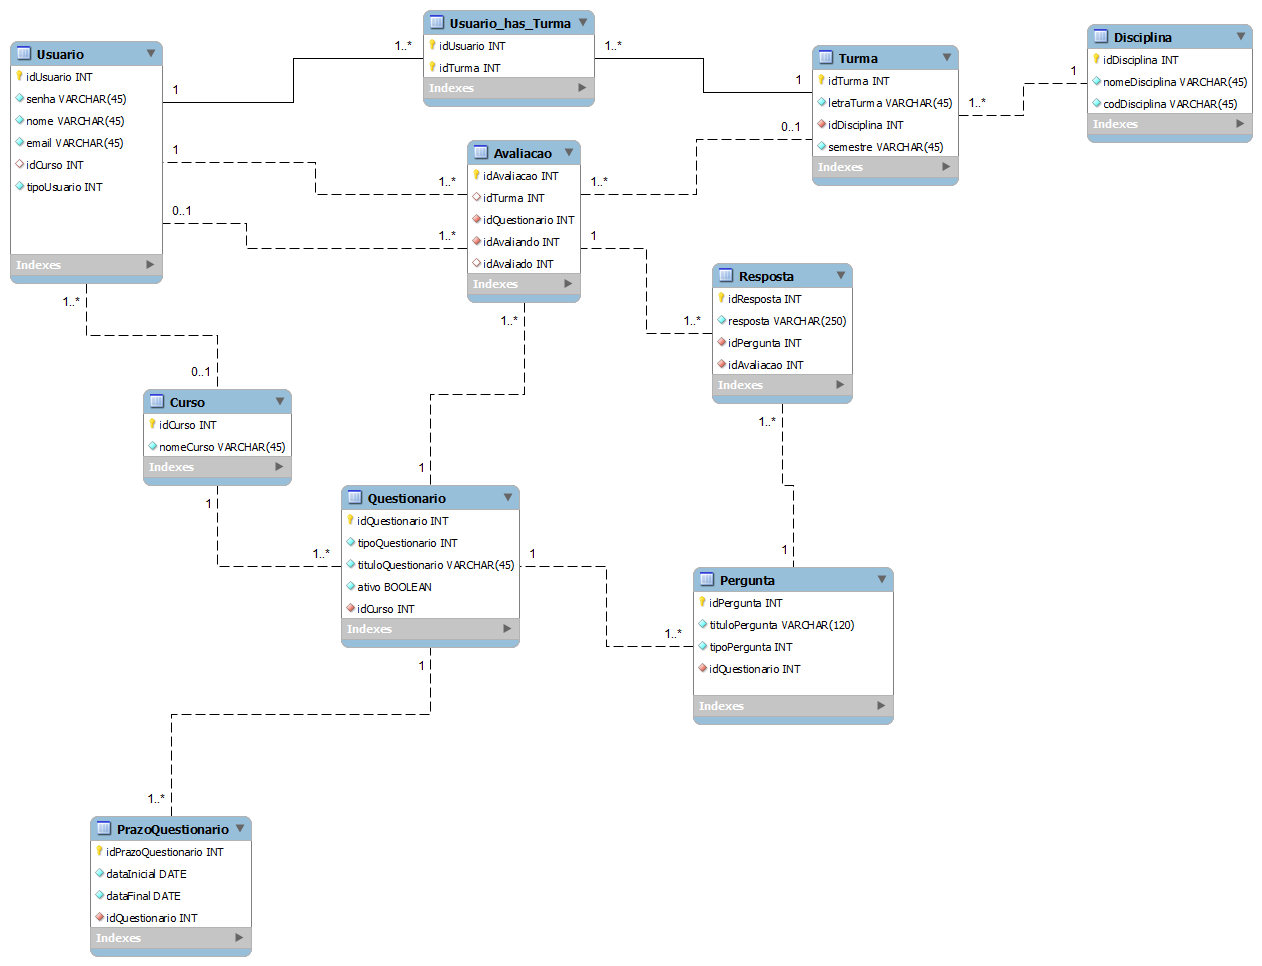
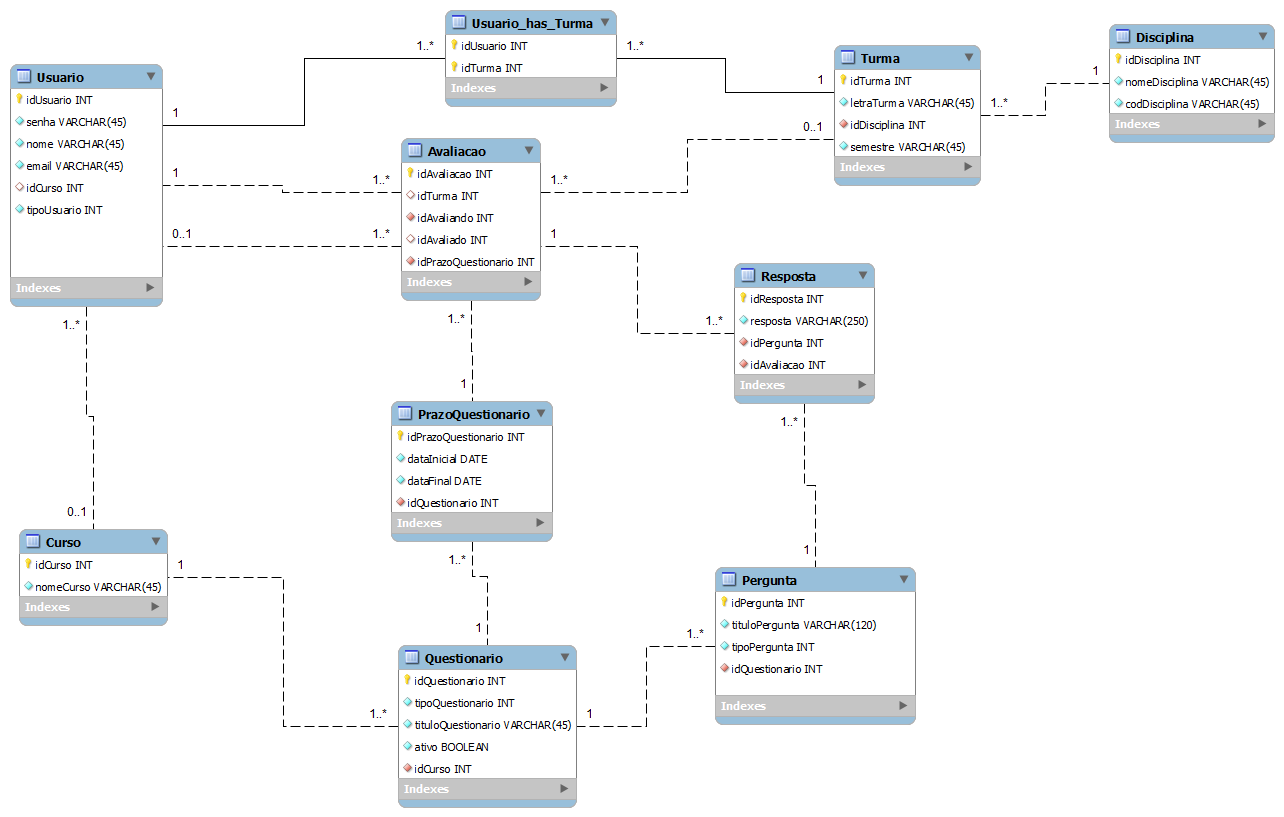
Pequena mudança no BD, avaliação de coordenador

diff --git a/src/br/ufjf/avaliacao/controller/AvaliacoesDisponiveisController.java b/src/br/ufjf/avaliacao/controller/AvaliacoesDisponiveisController.java
@@ -12,6 +12,7 @@ import org.zkoss.zk.ui.Executions;
 import org.zkoss.zk.ui.event.Event;
 import org.zkoss.zk.ui.event.EventListener;
 import org.zkoss.zk.ui.util.Clients;
+import org.zkoss.zul.Button;
 import org.zkoss.zul.Label;
 import org.zkoss.zul.Messagebox;
 import org.zkoss.zul.Row;
@@ -42,10 +43,11 @@ public class AvaliacoesDisponiveisController extends GenericController {
 	private Questionario questionarioAuto = questionarioDAO
 			.retornaQuestinarioParaUsuarioAutoAvaliacao(usuario);
 	private List<PrazoQuestionario> prazoAuto = new PrazoQuestionarioDAO()
-	.questionarioDisponivel(questionarioAuto);
-	private Questionario questionarioInfra = questionarioDAO.retornaQuestinarioParaUsuarioInfra(usuario);
+			.questionarioDisponivel(questionarioAuto);
+	private Questionario questionarioInfra = questionarioDAO
+			.retornaQuestinarioParaUsuarioInfra(usuario);
 	private List<PrazoQuestionario> prazoInfra = new PrazoQuestionarioDAO()
-	.questionarioDisponivel(questionarioInfra);
+			.questionarioDisponivel(questionarioInfra);
 	private static Questionario questionarioAtual = new Questionario();
 	private Resposta resposta = new Resposta();
 	private List<Resposta> respostas = new ArrayList<Resposta>();
@@ -103,23 +105,33 @@ public class AvaliacoesDisponiveisController extends GenericController {
 	}
 
 	@Command
+	public void avaliacaoDisponivel(@BindingParam("button") Button b,
+			@BindingParam("questionario") Questionario q) {
+		if (new AvaliacaoDAO().jaAvaliouOutros(usuario, q)) {
+			b.setDisabled(true);
+			b.setLabel("Já Avaliou");
+		} else {
+			b.setDisabled(false);
+			b.setLabel("Avaliar");
+		}
+	}
+
+	@Command
 	public void terminarAvaliacao() {
 		Clients.showBusy("Salvando avaliação..");
 		if (respostas.size() != questionarioAtual.getPerguntas().size()) {
+			Clients.clearBusy();
 			Messagebox.show("Responda todas as perguntas antes de finalizar!");
 		} else {
 			Avaliacao avaliacao = new Avaliacao();
 			avaliacao.setAvaliando(usuario);
-			avaliacao.setQuestionario(questionarioAtual);
 			avaliacao.setAvaliado(coordAvaliado);
+			avaliacao.setPrazoQuestionario(prazoCoord.get(0));
 			new AvaliacaoDAO().salvar(avaliacao);
-
 			for (Resposta r : respostas) {
 				r.setAvaliacao(avaliacao);
 			}
-
 			new RespostaDAO().salvarLista(respostas);
-
 			Clients.clearBusy();
 			Messagebox.show("Avaliação Salva com Sucesso", "Concluído",
 					Messagebox.OK, Messagebox.INFORMATION,

diff --git a/src/br/ufjf/avaliacao/model/Avaliacao.java b/src/br/ufjf/avaliacao/model/Avaliacao.java
@@ -1,6 +1,8 @@
 package br.ufjf.avaliacao.model;
 
 import java.io.Serializable;
+import java.util.ArrayList;
+import java.util.List;
 
 import javax.persistence.Column;
 import javax.persistence.Entity;
@@ -9,6 +11,7 @@ import javax.persistence.GeneratedValue;
 import javax.persistence.Id;
 import javax.persistence.JoinColumn;
 import javax.persistence.ManyToOne;
+import javax.persistence.OneToMany;
 import javax.persistence.Table;
 
 import org.hibernate.annotations.GenericGenerator;
@@ -63,6 +66,16 @@ public class Avaliacao implements Serializable{
 	private Usuario avaliado;
 	
 	/**
+	 * Relacionamento 1 para N entre avaliacao e respostas. Mapeada em
+	 * {@link Resposta} pela variável {@code avaliacao} e retorno do tipo
+	 * {@code LAZY} que indica que não será carregado automáticamente este dado
+	 * quando retornarmos o {@link Avaliacao} .
+	 * 
+	 */
+	@OneToMany(fetch = FetchType.LAZY, mappedBy = "avaliacao" )
+	private List<Resposta> respostas = new ArrayList<Resposta>();
+	
+	/**
 	 * Relacionamento N para 1 entre avaliação e turma. Mapeando
 	 * {@link Turma} na variável {@code turma} e retorno do tipo
 	 * {@code LAZY} que indica que não será carregado automáticamente este dado
@@ -81,8 +94,8 @@ public class Avaliacao implements Serializable{
 	 * 
 	 */
 	@ManyToOne(fetch = FetchType.LAZY)
-	@JoinColumn(name = "idQuestionario", nullable = false)
-	private Questionario questionario;
+	@JoinColumn(name = "idPrazoQuestionario", nullable = false)
+	private PrazoQuestionario prazoQuestionario;
 
 	public int getIdAvaliacao() {
 		return idAvaliacao;
@@ -116,13 +129,12 @@ public class Avaliacao implements Serializable{
 		this.turma = turma;
 	}
 
-	public Questionario getQuestionario() {
-		return questionario;
+	public PrazoQuestionario getPrazoQuestionario() {
+		return prazoQuestionario;
 	}
 
-	public void setQuestionario(Questionario questionario) {
-		this.questionario = questionario;
+	public void setPrazoQuestionario(PrazoQuestionario prazoQuestionario) {
+		this.prazoQuestionario = prazoQuestionario;
 	}
 
-	
 }

diff --git a/src/br/ufjf/avaliacao/model/PrazoQuestionario.java b/src/br/ufjf/avaliacao/model/PrazoQuestionario.java
@@ -1,6 +1,9 @@
 package br.ufjf.avaliacao.model;
 
+import java.io.Serializable;
+import java.util.ArrayList;
 import java.util.Date;
+import java.util.List;
 
 import javax.persistence.Column;
 import javax.persistence.Entity;
@@ -9,6 +12,7 @@ import javax.persistence.GeneratedValue;
 import javax.persistence.Id;
 import javax.persistence.JoinColumn;
 import javax.persistence.ManyToOne;
+import javax.persistence.OneToMany;
 import javax.persistence.Table;
 import javax.persistence.Transient;
 
@@ -23,8 +27,9 @@ import org.hibernate.annotations.GenericGenerator;
 
 @Entity
 @Table(name = "PrazoQuestionario")
-public class PrazoQuestionario {
+public class PrazoQuestionario implements Serializable{
 	
+	private static final long serialVersionUID = 1L;
 	
 	/**
 	 * Campo com ID do prazo do questionario. Relaciona com a coluna
@@ -59,6 +64,15 @@ public class PrazoQuestionario {
 	@Column(name = "dataFinal", nullable = false)
 	private Date dataFinal;
 	
+	/**
+	 * Relacionamento 1 para N entre prazoQuestionário e avaliação. Mapeada em
+	 * {@link Avaliação} pela variável {@code prazoquestionario} e retorno do tipo
+	 * {@code LAZY} que indica que não será carregado automáticamente este dado
+	 * quando retornarmos o {@link PrazoQuestionario} .
+	 * 
+	 */
+	@OneToMany(fetch = FetchType.LAZY, mappedBy = "prazoQuestionario" )
+	private List<Avaliacao> avaliacoes = new ArrayList<Avaliacao>();
 	
 	/**
 	 * Relacionamento N para 1 entre prazoQuestionario e questionario. Mapeando
@@ -130,6 +144,13 @@ public class PrazoQuestionario {
 	public void setDataInicialFormatada(String dataInicialFormatada) {
 		this.dataInicialFormatada = dataInicialFormatada;
 	}
-	
 
+	public List<Avaliacao> getAvaliacoes() {
+		return avaliacoes;
+	}
+
+	public void setAvaliacoes(List<Avaliacao> avaliacoes) {
+		this.avaliacoes = avaliacoes;
+	}
+	
 }

diff --git a/src/br/ufjf/avaliacao/persistent/impl/AvaliacaoDAO.java b/src/br/ufjf/avaliacao/persistent/impl/AvaliacaoDAO.java
@@ -1,6 +1,6 @@
 package br.ufjf.avaliacao.persistent.impl;
 
-import java.util.List;
+import java.util.Date;
 
 import org.hibernate.Query;
 
@@ -12,18 +12,19 @@ import br.ufjf.avaliacao.persistent.IAvalicaoDAO;
 
 public class AvaliacaoDAO extends GenericoDAO implements IAvalicaoDAO {
 
-	@SuppressWarnings("unchecked")
-	public boolean jaAvaliou(Usuario user, Questionario quest) {
+	//Método para verificar se existe uma avaliação de coordenador, infraestrutura ou autoavaliação
+	public boolean jaAvaliouOutros(Usuario aluno, Questionario quest) {
 		try {
 			Query query = getSession()
 					.createQuery(
-							"SELECT a FROM Avaliacao AS a LEFT JOIN FETCH a.questionario AS q WHERE q =:questionario AND a.avaliando =:user");
+							"SELECT a FROM Avaliacao AS a LEFT JOIN FETCH a.prazoQuestionario AS p WHERE p.questionario = :questionario AND a.avaliando = :aluno AND :dataAtual BETWEEN p.dataInicial AND p.dataFinal");
 			query.setParameter("questionario", quest);
-			query.setParameter("user", user);
+			query.setParameter("aluno", aluno);
+			query.setParameter("dataAtual", new Date());
 
-			List<Avaliacao> avaliacao = (List<Avaliacao>) query.list();
+			Avaliacao avaliacao = (Avaliacao) query.uniqueResult();
 
-			if (!avaliacao.isEmpty())
+			if (avaliacao!=null)
 				return true;
 		} catch (Exception e) {
 			e.printStackTrace();

diff --git a/src/br/ufjf/avaliacao/model/Questionario.java b/src/br/ufjf/avaliacao/model/Questionario.java
@@ -68,15 +68,6 @@ public class Questionario implements Serializable {
 	@OneToMany(fetch = FetchType.EAGER, mappedBy = "questionario")
 	private List<Pergunta> perguntas = new ArrayList<Pergunta>();
 
-	/**
-	 * Relacionamento 1 para N entre questionário e avaliação. Mapeada em
-	 * {@link Avaliação} pela variável {@code questionario} e retorno do tipo
-	 * {@code LAZY} que indica que não será carregado automáticamente este dado
-	 * quando retornarmos o {@link Questionario} .
-	 * 
-	 */
-	@OneToMany(fetch = FetchType.LAZY, mappedBy = "questionario")
-	private List<Avaliacao> avaliacoes = new ArrayList<Avaliacao>();
 
 	/**
 	 * Relacionamento N para 1 entre questionario e curso. Mapeando
@@ -138,14 +129,6 @@ public class Questionario implements Serializable {
 
 	public void setPerguntas(List<Pergunta> perguntas) {
 		this.perguntas = perguntas;
-	}
-
-	public List<Avaliacao> getAvaliacoes() {
-		return avaliacoes;
-	}
-
-	public void setAvaliacoes(List<Avaliacao> avaliacoes) {
-		this.avaliacoes = avaliacoes;
 	}
 
 	public Integer getTipoQuestionario() {

diff --git a/src/br/ufjf/avaliacao/controller/LoginController.java b/src/br/ufjf/avaliacao/controller/LoginController.java
@@ -52,11 +52,32 @@ public class LoginController {
 											.getAttribute("usuario");
 									Executions.sendRedirect("/home.zul");
 								} else {
+									Clients.clearBusy();
 									Messagebox.show(
 											"Usuário ou Senha inválidos!",
 											"Error", Messagebox.OK,
-											Messagebox.ERROR);
-								}			
+											Messagebox.ERROR,
+											new EventListener<Event>() {
+												@Override
+												public void onEvent(Event event)
+														throws Exception {
+													Executions
+															.sendRedirect(null);
+												}
+											});
+								}
+							} else {
+								Clients.clearBusy();
+								Messagebox.show("Preencha todos os campos!",
+										"Error", Messagebox.OK,
+										Messagebox.ERROR,
+										new EventListener<Event>() {
+											@Override
+											public void onEvent(Event event)
+													throws Exception {
+												Executions.sendRedirect(null);
+											}
+										});
 							}
 						}
 					});

diff --git a/src/br/ufjf/avaliacao/persistent/impl/PrazoQuestionarioDAO.java b/src/br/ufjf/avaliacao/persistent/impl/PrazoQuestionarioDAO.java
@@ -55,6 +55,6 @@ public class PrazoQuestionarioDAO extends GenericoDAO implements
 		}
 		return null;
 	}
-	
+		
 	
 }
